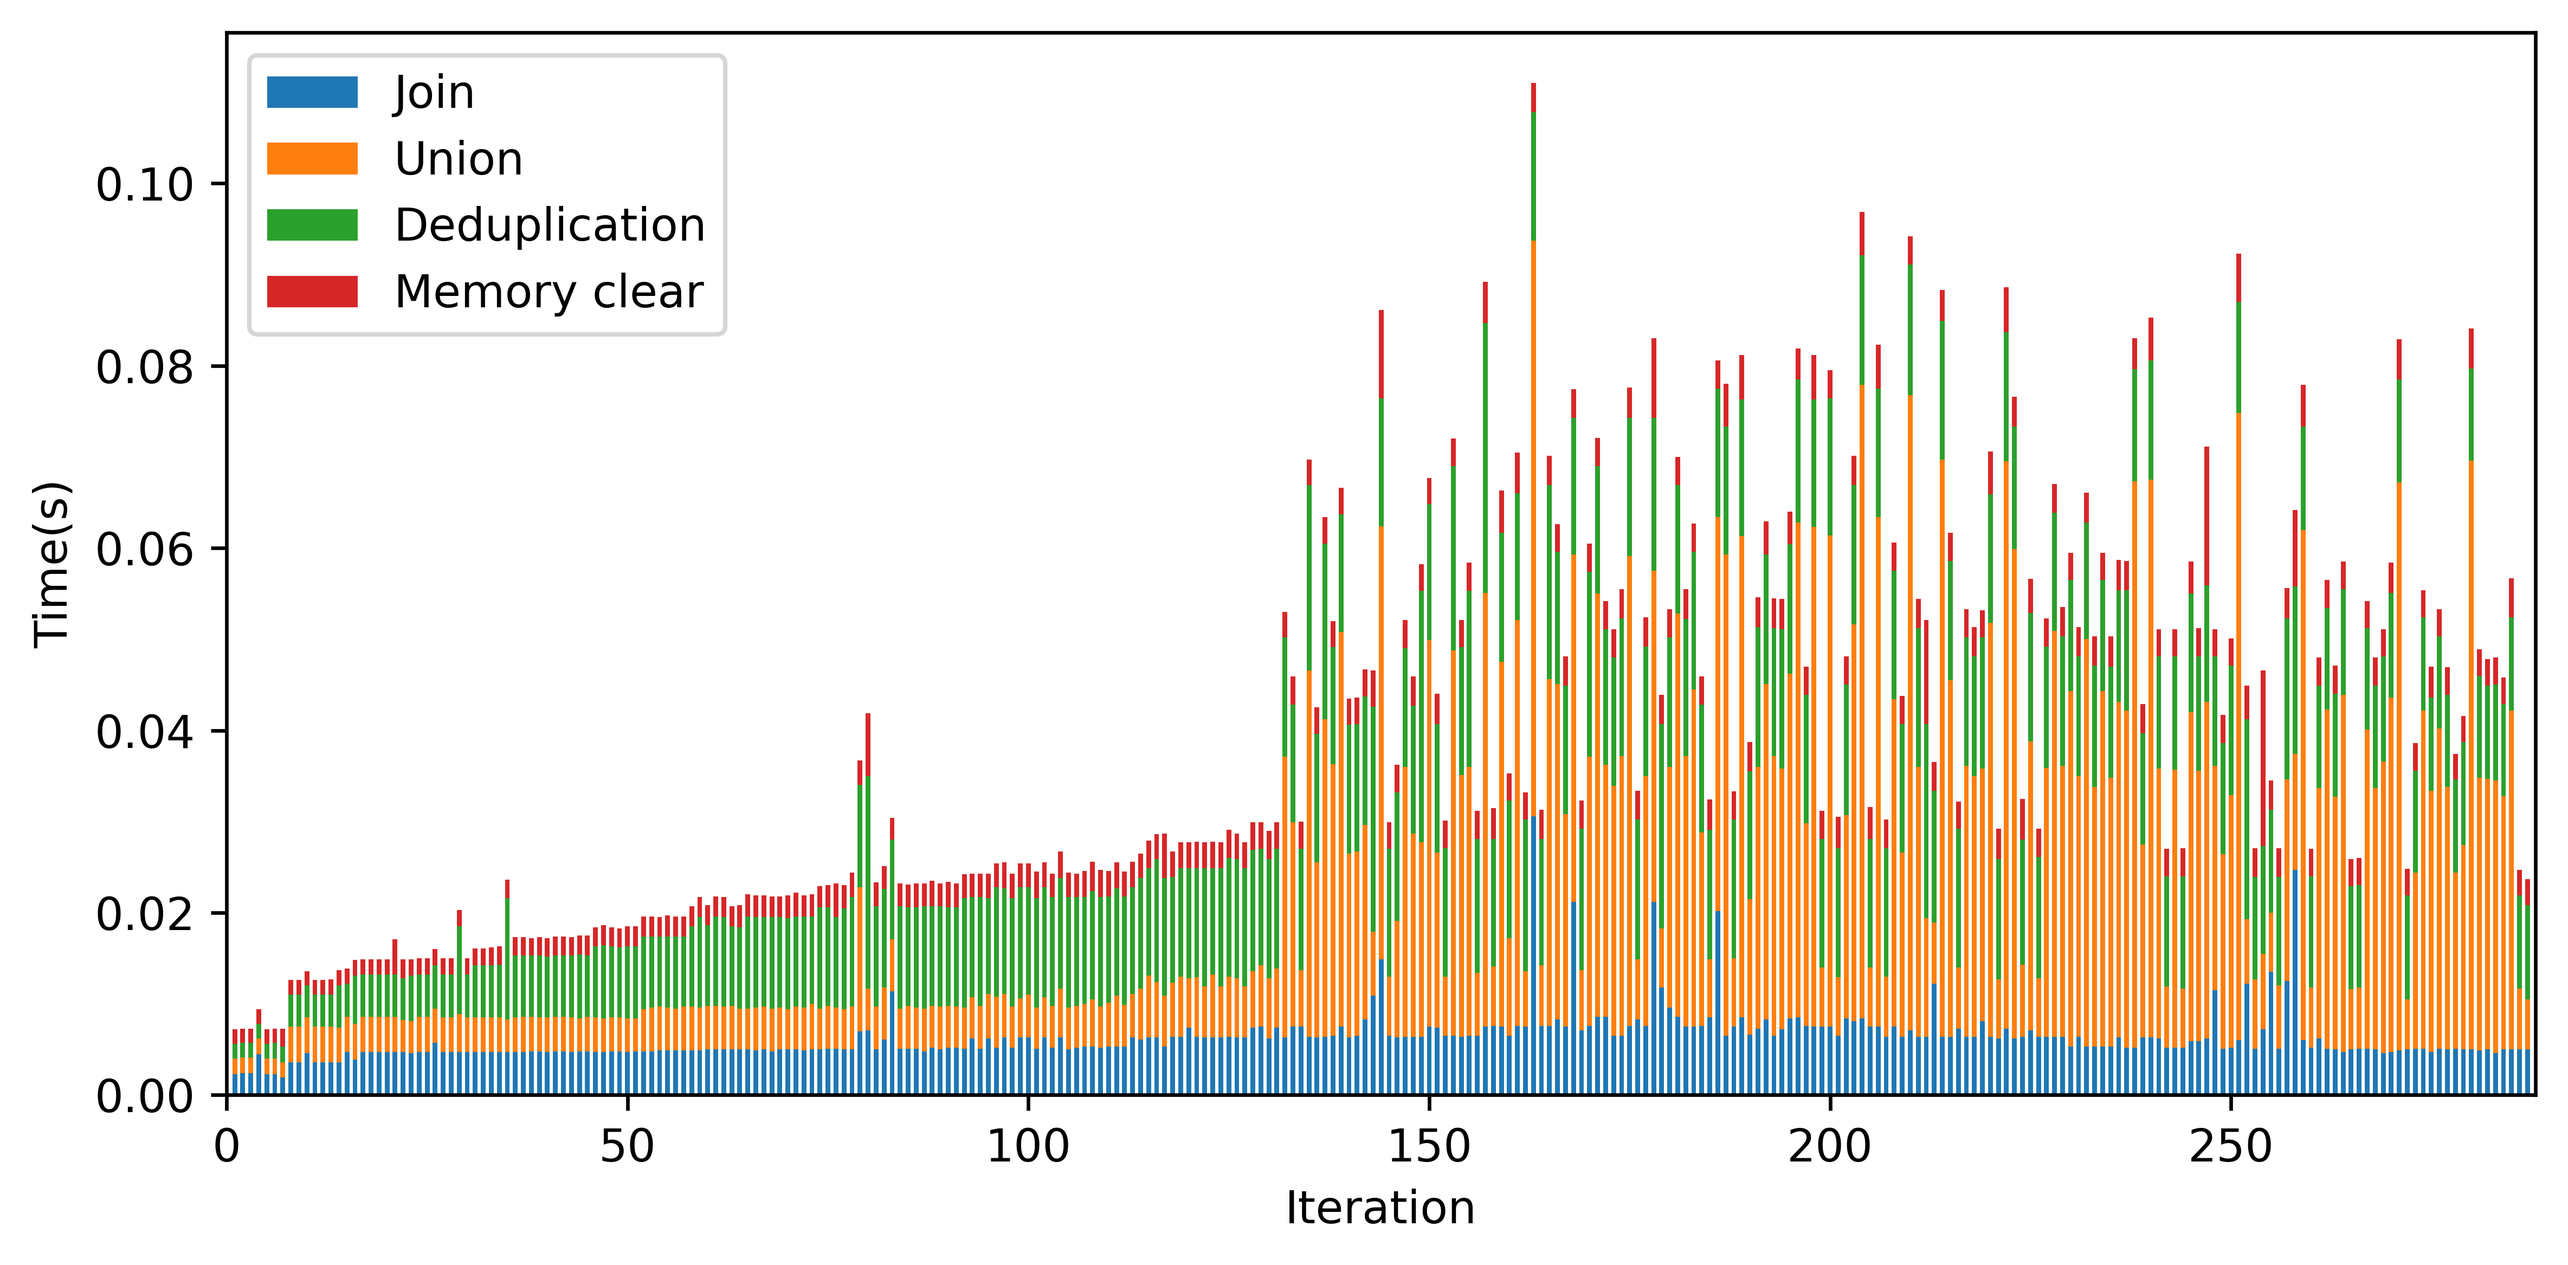
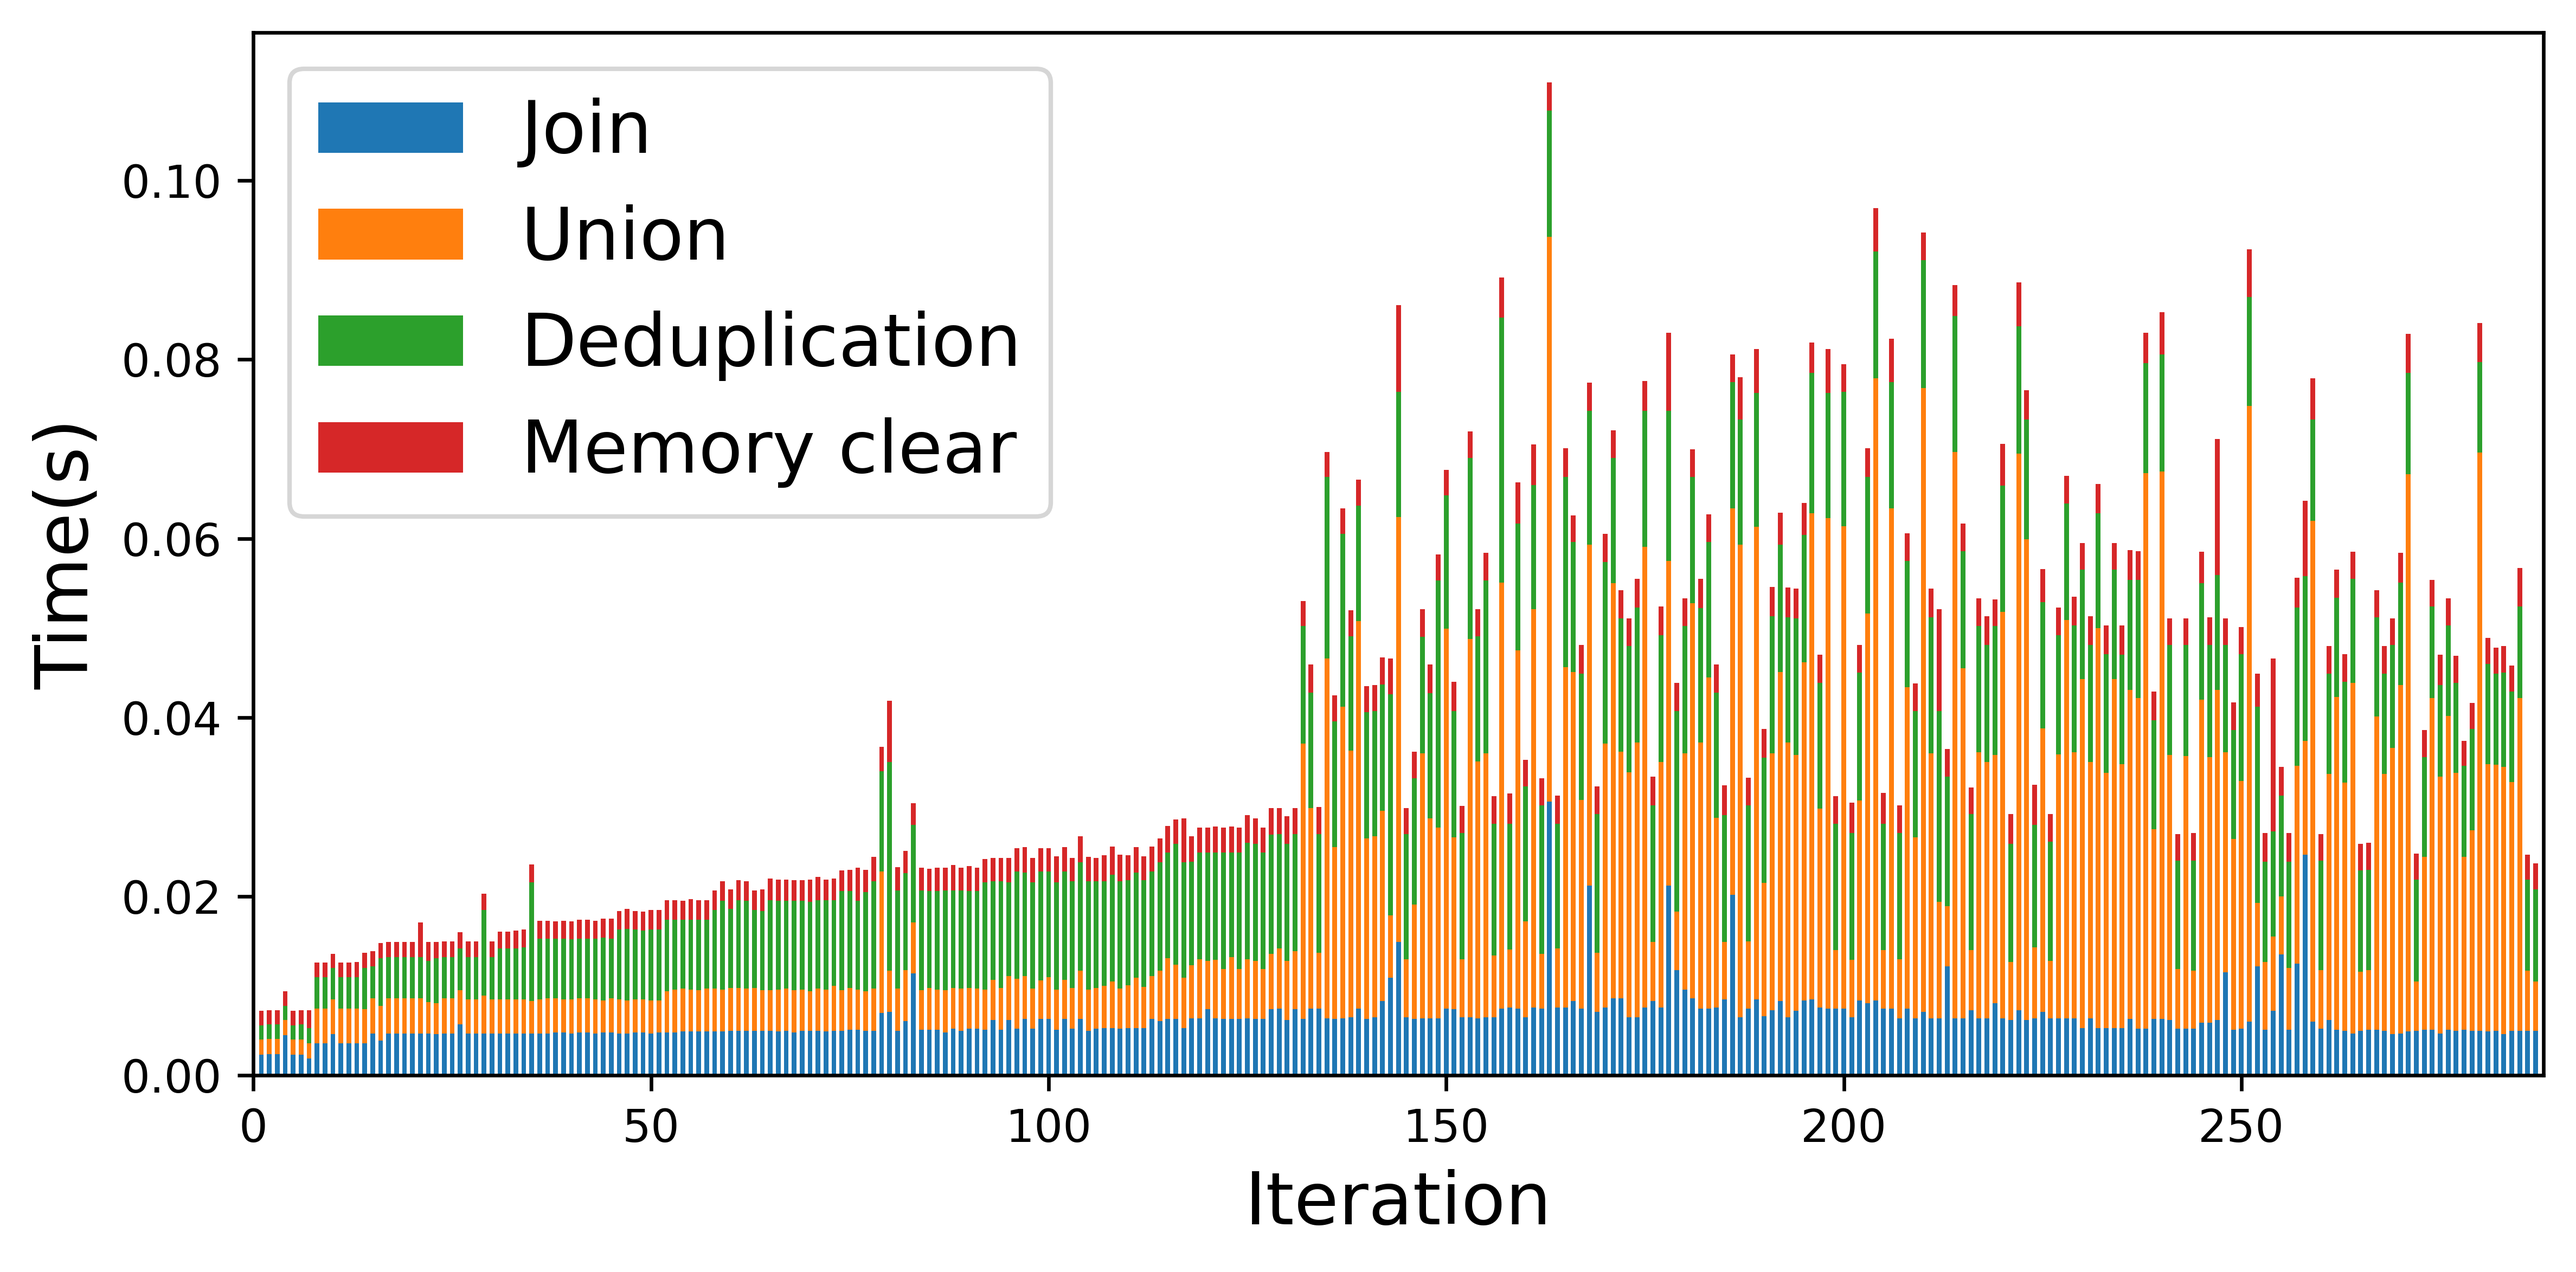
increased charts font size

diff --git a/tc_cuda/chart_generation/generate_bar_chart.py b/tc_cuda/chart_generation/generate_bar_chart.py
@@ -30,23 +30,22 @@ def draw_bar_chart(xtick_labels, datasets, dataset_titles,
             rect = ax.bar(label_locations + (i - mid) * single_width + (single_width / 2),
                           datasets[i], single_width,
                           label=dataset_titles[i])
-        ax.bar_label(rect, fmt='%.2f')
+        ax.bar_label(rect, fmt='%.2f', fontsize=12)
 
     if x_label:
-        ax.set_xlabel(x_label)
+        ax.set_xlabel(x_label, fontsize=16)
     if y_label:
-        ax.set_ylabel(y_label)
+        ax.set_ylabel(y_label, fontsize=16)
     if title:
         ax.set_title(title)
     if len(datasets[0]) > 7:
-        ax.set_xticks(label_locations, xtick_labels, rotation='vertical')
+        ax.set_xticks(label_locations, xtick_labels, rotation='vertical', fontsize=16)
     else:
-        ax.set_xticks(label_locations, xtick_labels)
-    ax.legend()
+        ax.set_xticks(label_locations, xtick_labels, fontsize=16)
+    ax.legend(fontsize=16)
 
     plt.yscale("log")
     plt.gca().yaxis.set_major_formatter(ScalarFormatter())
-
 
     fig.tight_layout()
     if figure_path == None:
@@ -67,7 +66,7 @@ def show_cuda_pinned_unified():
     unified_dataset = [11.4198, 45.7082, 2.2018, 7.3043]
     unified_dataset_title = "Unified memory"
     x_label = "Datasets"
-    y_label = "Execution Time (seconds in log scale)"
+    y_label = "Execution Time(s) (log scale)"
     output_filename = os.path.join("output", "pinned_vs_unified.png")
     draw_bar_chart(dataset_labels, [pinned_dataset, unified_dataset], [pinned_dataset_title, unified_dataset_title],
                    x_label, y_label,
@@ -78,12 +77,12 @@ def show_cuda_cudf_join():
     dataset_labels = ['random 1000000', 'random 2000000', 'random 3000000', 'random 4000000', 'random 5000000',
                       'string 1000000', 'string 2000000', 'string 3000000', 'string 4000000', 'string 5000000']
     cuda_dataset = [0.118800, 0.443422, 0.986914, 1.727381, 2.640382, 0.014831, 0.022604, 0.031009, 0.038893, 0.049386]
-    cuda_dataset_title = "CUDA Hashjoin (our implementation)"
+    cuda_dataset_title = "CUDA Single Hashjoin"
     cudf_dataset = [1.009139, 3.559351, 7.486542, 13.013476, 20.446236, 0.144650, 0.363000, 0.577207, 0.826158,
                     1.062329]
     cudf_dataset_title = "cuDF"
     x_label = "Datasets"
-    y_label = "Execution Time (seconds in log scale)"
+    y_label = "Execution Time(s) (log scale)"
     output_filename = os.path.join("output", "cuda_vs_cudf_join.png")
     draw_bar_chart(dataset_labels, [cuda_dataset, cudf_dataset], [cuda_dataset_title, cudf_dataset_title],
                    x_label, y_label,
@@ -101,7 +100,7 @@ def show_cuda_souffle():
                        0.606, 1.612, 20.008, 29.184, 536.233, 1.496, 29.070, 222.761]
     souffle_dataset_title = "Souffle"
     x_label = "Datasets"
-    y_label = "Execution Time (seconds in log scale)"
+    y_label = "Execution Time(s) (log scale)"
     output_filename = os.path.join("output", "cuda_vs_souffle.png")
     draw_bar_chart(dataset_labels, [cuda_dataset, souffle_dataset],
                    [cuda_dataset_title, souffle_dataset_title],
@@ -120,12 +119,13 @@ def show_cuda_cudf():
                     8.194708, 6.841340, 0.905852, 3.719607, 5.596315, 80.077607, 0, 0, 3.181488, 0, 0]
     cudf_dataset_title = "cuDF"
     x_label = "Datasets"
-    y_label = "Execution Time (seconds in log scale)"
+    y_label = "Execution Time(s) (log scale)"
     output_filename = os.path.join("output", "cuda_vs_cudf.png")
     draw_bar_chart(dataset_labels, [cuda_dataset, cudf_dataset],
                    [cuda_dataset_title, cudf_dataset_title],
                    x_label, y_label,
                    figure_path=output_filename, figure_width=14, figure_height=6)
+
 
 def show_cuda_souffle_cudf():
     dataset_labels = ['CA-HepTh', 'SF.cedge', 'p2p-Gnutella09', 'p2p-Gnutella04', 'cal.cedge', 'TG.cedge', 'OL.cedge',
@@ -141,7 +141,7 @@ def show_cuda_souffle_cudf():
                     8.194708, 6.841340, 0.905852, 3.719607, 5.596315, 80.077607, 0, 0, 3.181488, 0, 0]
     cudf_dataset_title = "cuDF"
     x_label = "Datasets"
-    y_label = "Execution Time (seconds in log scale)"
+    y_label = "Execution Time(s) (log scale)"
     output_filename = os.path.join("output", "cuda_vs_souffle_vs_cudf.png")
     draw_bar_chart(dataset_labels, [cuda_dataset, souffle_dataset, cudf_dataset],
                    [cuda_dataset_title, souffle_dataset_title, cudf_dataset_title],
@@ -149,10 +149,9 @@ def show_cuda_souffle_cudf():
                    figure_path=output_filename, figure_width=16, figure_height=6)
 
 
-
 if __name__ == "__main__":
     show_cuda_cudf_join()
     show_cuda_pinned_unified()
-    show_cuda_souffle()
-    show_cuda_cudf()
-    show_cuda_souffle_cudf()
+    # show_cuda_souffle()
+    # show_cuda_cudf()
+    # show_cuda_souffle_cudf()

diff --git a/tc_cuda/chart_generation/generate_stacked_bar_chart.py b/tc_cuda/chart_generation/generate_stacked_bar_chart.py
@@ -34,10 +34,10 @@ def draw_stacked_bar(data, dataset_name):
     ax.bar(labels, data[2], width, bottom=data[1], label='Union')
     ax.bar(labels, data[3], width, bottom=data[1] + data[2], label='Deduplication')
     ax.bar(labels, data[4], width, bottom=data[1] + data[2] + data[3], label='Memory clear')
-    ax.set_xlabel('Iteration')
-    ax.set_ylabel('Time(s)')
+    ax.set_xlabel('Iteration', fontsize=16)
+    ax.set_ylabel('Time(s)', fontsize=16)
     # ax.set_title(f'Time breakdown for {dataset_name}')
-    ax.legend()
+    ax.legend(fontsize=16)
     ax.xaxis.get_major_locator().set_params(integer=True)
     plt.xlim([0, data[0][-1] + 1])
     plt.gcf().set_size_inches(8, 4)
@@ -50,7 +50,7 @@ def draw_stacked_bar(data, dataset_name):
 
 if __name__ == "__main__":
     file_directory = "data"
-    filenames = [filename for filename in os.listdir(file_directory) if filename.endswith(".txt")]
+    filenames = [filename for filename in os.listdir(file_directory) if filename.endswith(".txt")] #
     for filename in filenames:
         file_path = os.path.join(file_directory, filename)
         data = read_data(file_path)
